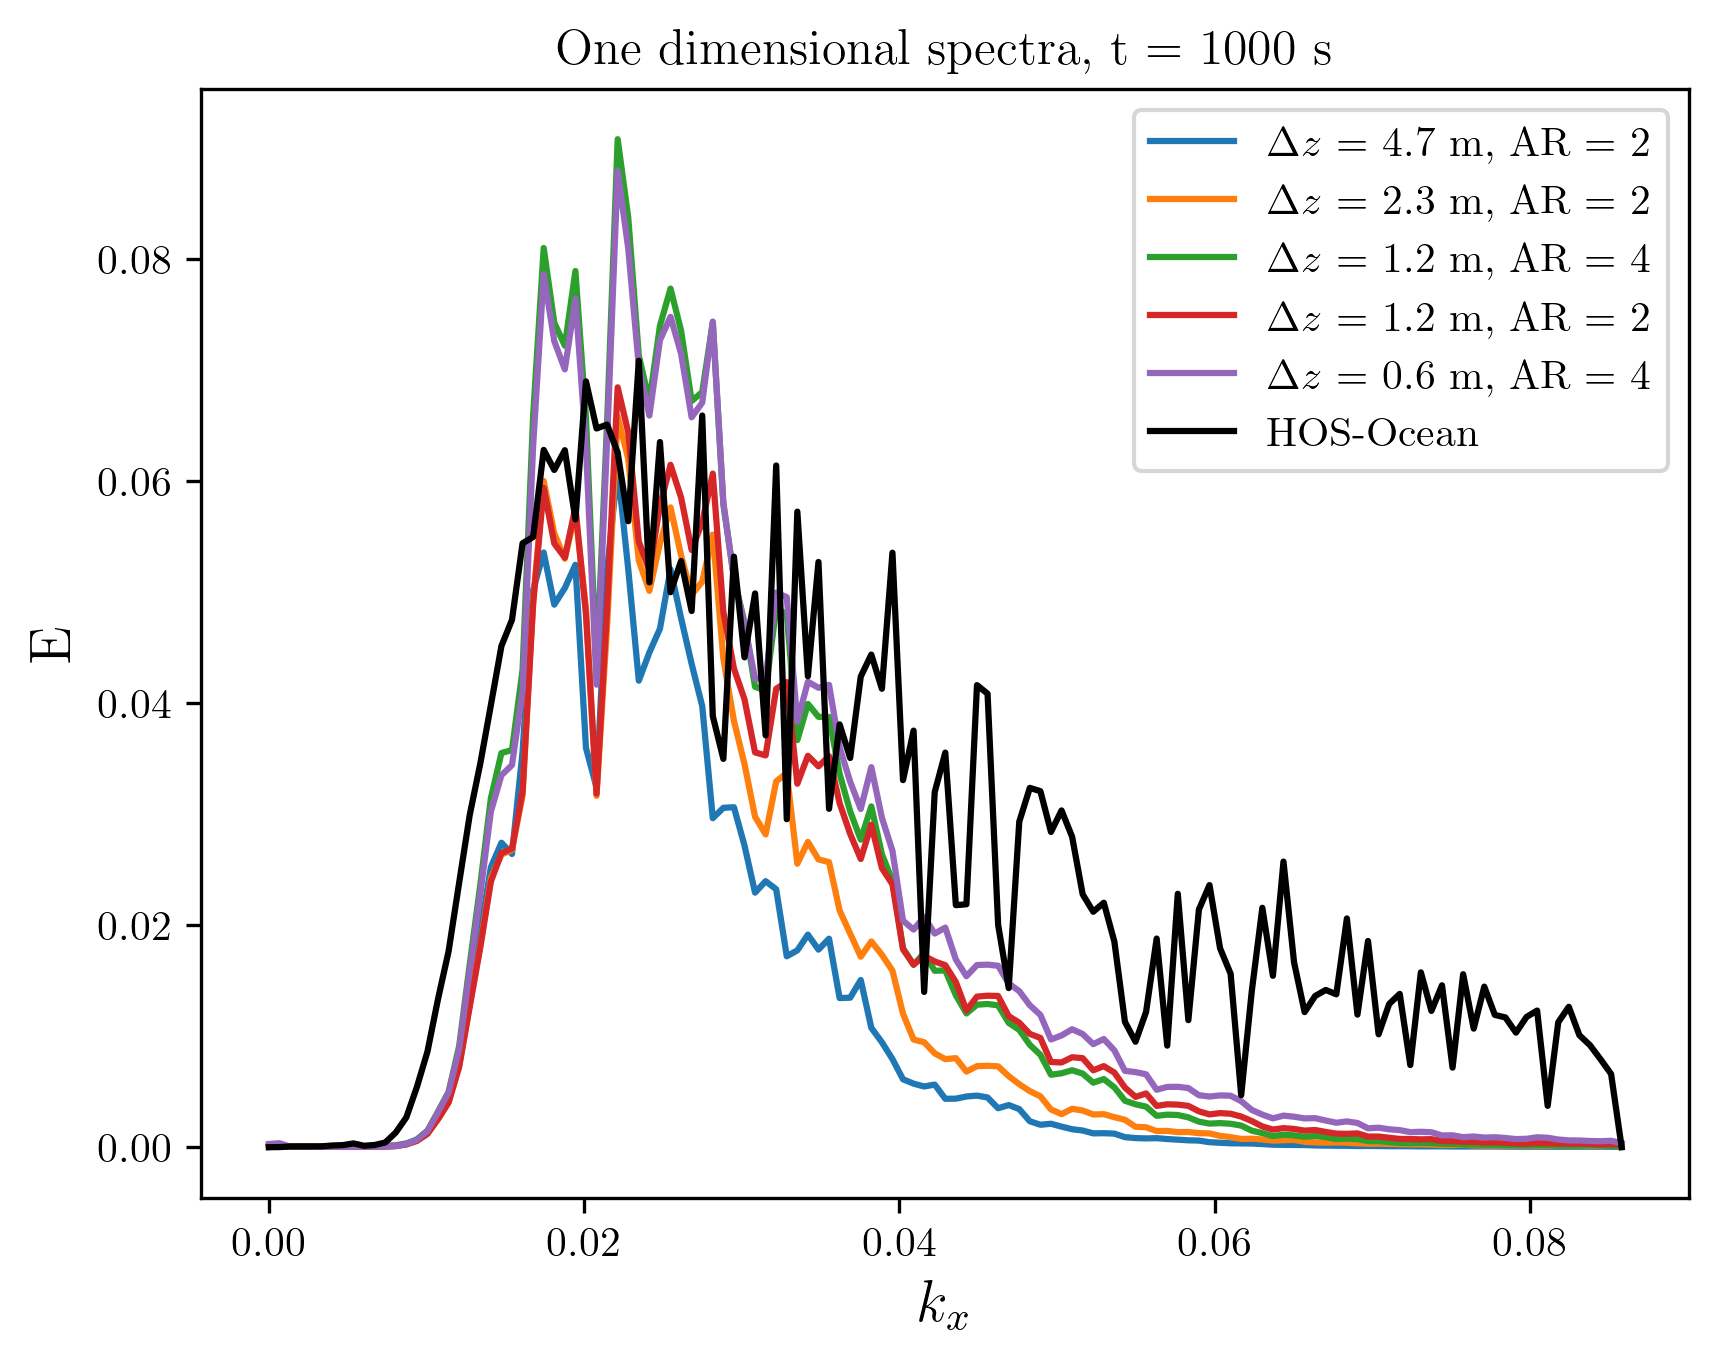
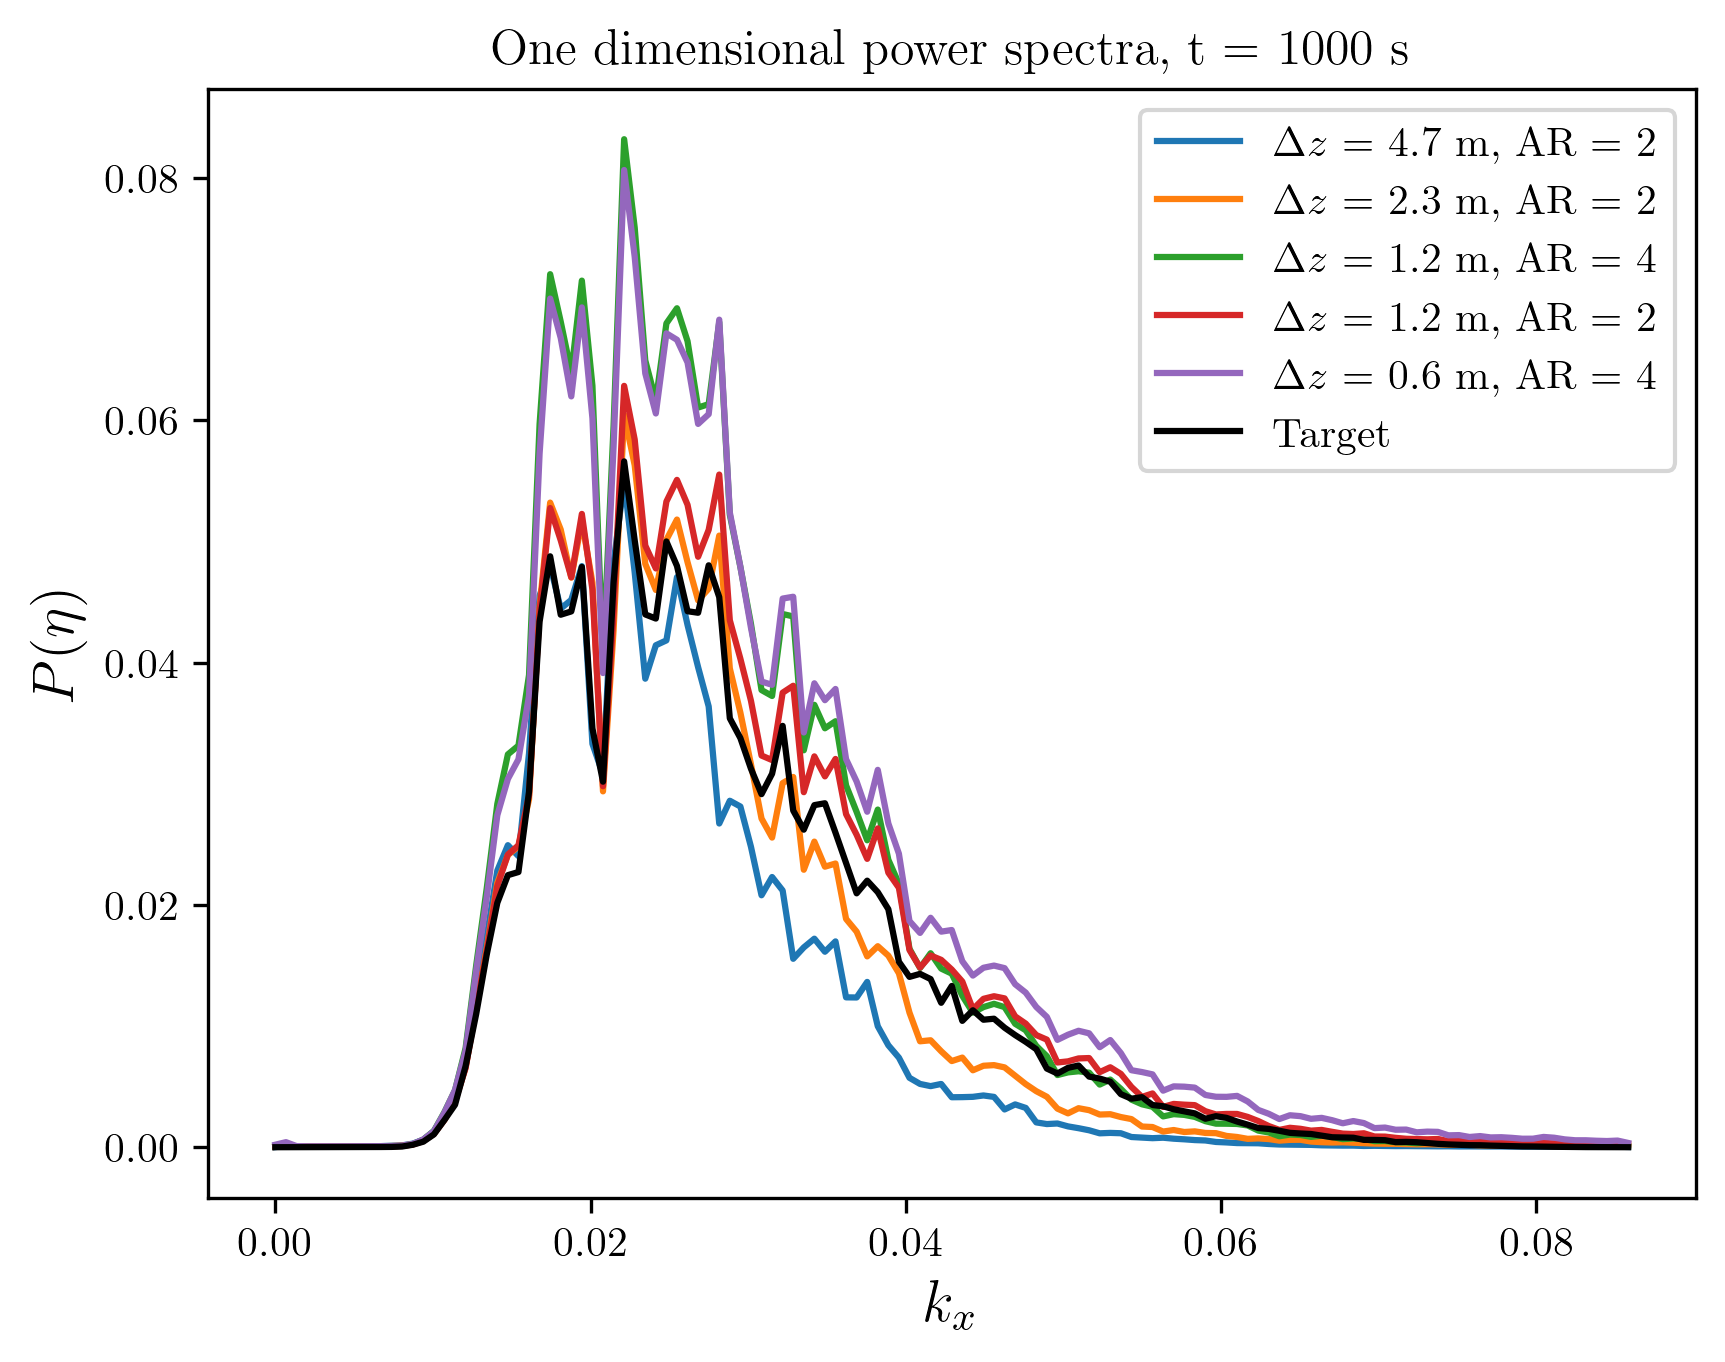
update reference curves, use hamming window

diff --git a/AMR_Wind_cases/irregular_ocean_periodic/spectral_analysis.py b/AMR_Wind_cases/irregular_ocean_periodic/spectral_analysis.py
@@ -166,7 +166,7 @@ def _(parse_single_file, plt, np, path):
     _ny = 256
 
     def PSD(frequency, TimeSeries):
-        f, psd = welch(TimeSeries, fs=frequency, scaling='spectrum')
+        f, psd = welch(TimeSeries, fs=frequency, window='hamming', scaling='spectrum')
         return (f, psd)
 
     def make_spectrum_plot(itime):
@@ -271,16 +271,16 @@ def _(parse_single_file, plt, np, path):
 
         # Make plot
         _fig = plt.figure()
-        plt.title('One dimensional spectra, t = ' + str(itime) +' s')
+        plt.title('One dimensional power spectra, t = ' + str(itime) +' s')
         plt.plot(kxCFD_three_levels, PhixCFDTotal_three_levels, label='$\\Delta z$ = 4.7 m, AR = 2')
         plt.plot(kxCFD_four_levels, PhixCFDTotal_four_levels, label='$\\Delta z$ = 2.3 m, AR = 2')
         plt.plot(kxCFD_four_levels_AR2x, PhixCFDTotal_four_levels_AR2x, label='$\\Delta z$ = 1.2 m, AR = 4')
         plt.plot(kxCFD_five_levels, PhixCFDTotal_five_levels, label='$\\Delta z$ = 1.2 m, AR = 2')
         plt.plot(kxCFD_five_levels_AR2x, PhixCFDTotal_five_levels_AR2x, label='$\\Delta z$ = 0.6 m, AR = 4')
-        plt.plot(kxCFD_ref, PhixCFDTotal_ref, label='Target')
-        plt.plot(kx[127, :], a_eta[127, :], 'k', label='HOS-Ocean')
+        plt.plot(kxCFD_ref, PhixCFDTotal_ref, 'k', label='Target')
+        #plt.plot(kx[127, :], a_eta[127, :], 'k', label='HOS-Ocean')
         plt.xlabel('$k_x$', fontsize=14)
-        plt.ylabel('E', fontsize=14)
+        plt.ylabel('$P(\\eta)$', fontsize=14)
         plt.legend()
         plt.savefig('plotting_outputs/one_dimensional_spectra_x_'+str(itime)+'s.png', bbox_inches='tight', dpi=300)
         
@@ -424,7 +424,8 @@ def _(
     plt.plot(CFD_time256_fivelev, savgol_filter(CFDE_mech256_fivelev, 11, 3) / ME_ref_CFD, label='$\\Delta z$ = 1.2 m, AR = 2')
     plt.plot(CFD_time256_fivelev_AR2x, savgol_filter(CFDE_mech256_fivelev_AR2x, 31, 3) / ME_ref_CFD, label='$\\Delta z$ = 0.6 m, AR = 4')
     # plt.plot(CFD_time256_sixlev, savgol_filter(CFDE_mech256_sixlev, 11, 3) / ME_ref_CFD, label='$\\Delta z$ = 0.6 m, AR = 2')
-    plt.plot(HOSEnergy[:, 0], HOSEnergy[:, 4] / ME_ref, 'k', label='HOS-Ocean solution')
+    # plt.plot(HOSEnergy[:, 0], HOSEnergy[:, 4] / ME_ref, 'k', label='HOS-Ocean solution')
+    plt.plot([0,1000],[1,1],'k',label='Energy conservation')
     plt.xlim(0, 1000)
     plt.xlabel('time [s]', fontsize=16)
     plt.ylabel('$E/E_0$', fontsize=16)
